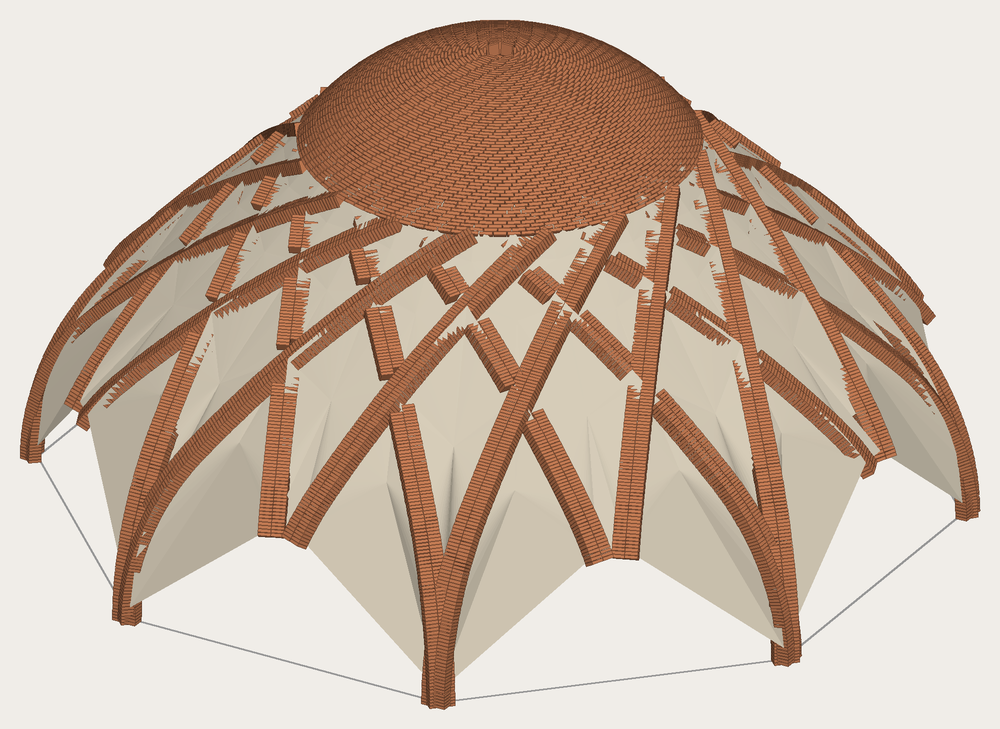
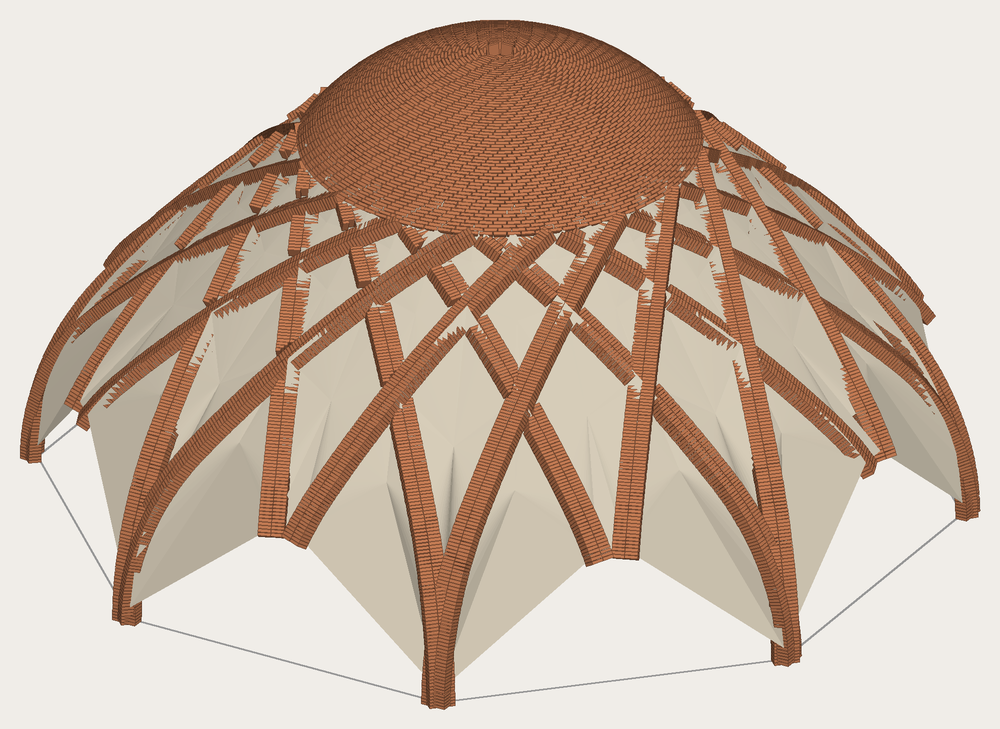
Karbandi ribs: continuous through every crossing
Trimmed rib now stops exactly at the passing rib's faces (exact rib body test, bricks shortened as cut bricks)
instead of losing a wide zone around each crossing; no more stranded pieces dropped. Knots where several
ribs meet use one fixed rank so the over/under can't form a loop. Test: every cut no longer than the passing rib.

Claude-Session: https://claude.ai/code/session_01WZz9U86PiQQhB9v6wZTtqs

diff --git a/src/MasonryCore/KarbandiBricks.cs b/src/MasonryCore/KarbandiBricks.cs
@@ -126,11 +126,11 @@ namespace Masonry.Core
                 }
             }
 
-            // crossings: the lower-numbered rib stays whole; bricks of the other rib inside it are cut away (mitred joint, K30)
+            // crossings: one rib passes whole through the knot, the other is trimmed brick by brick to the faces of the first.
+            // Only what is really inside the passing rib is cut: the gap in the trimmed rib is exactly the passing rib's width
+            // (seen along the trimmed rib), so both ribs read as continuous lines meeting at a knot (girih), as built.
             var keep = Enumerable.Repeat(true, bricks.Count).ToArray();
-            double reach = width / 2 + (s.Method == RibMethod.Radial ? f.Height / 2 : f.Length / 2) + s.Joint;   // just past the main rib
-            // woven, like a girih: along each rib its crossings alternate over / under, so every rib passes whole through
-            // about half of them and no piece is left between two cuts in a row
+            // woven, like a girih: along each rib its crossings alternate over / under
             var order = new Dictionary<(int rib, KarbandiCrossing x), int>();
             for (int ri = 0; ri < k.Ribs.Count; ri++)
             {
@@ -139,48 +139,98 @@ namespace Masonry.Core
                                       .OrderBy(x => Vec3.Dot(new Vec3(x.Point.X, x.Point.Y, rb.From.Z) - rb.From, dir) / Math.Max(1e-9, len2)).ToList();
                 for (int q = 0; q < mine.Count; q++) order[(ri, mine[q])] = q;
             }
-            foreach (var x in k.Crossings)
+            // each rib's underside in its own vertical plane: (distance along the chord, height), a point every 1 cm
+            var profile = new Dictionary<int, (double[] s, double[] z)>();
+            (double[] s, double[] z) Profile(int ri)
             {
-                // wall arches always stay whole; otherwise over / under alternates (or, mitred, the lower-numbered rib passes)
+                if (profile.TryGetValue(ri, out var pr)) return pr;
+                int m = Math.Max(2, (int)Math.Ceiling(k.Span / 10) + 1);
+                var ss = new double[m]; var zz = new double[m];
+                for (int q = 0; q < m; q++) { ss[q] = k.Span * q / (m - 1); zz[q] = k.Centre.Z + RibArch.Height(k.Arch, ss[q], k.Span); }
+                return profile[ri] = (ss, zz);
+            }
+            // is point p inside rib ri's body (with a joint's clearance)?
+            bool InRib(int ri, Vec3 p)
+            {
+                var rb = k.Ribs[ri]; var d = rb.To - rb.From; d = new Vec3(d.X, d.Y, 0);
+                double planLen = d.Length; var u = d * (1 / planLen); var w = new Vec3(-u.Y, u.X, 0);
+                var rel = new Vec3(p.X - rb.From.X, p.Y - rb.From.Y, 0);
+                if (Math.Abs(Vec3.Dot(rel, w)) > width / 2 + s.Joint) return false;
+                double along = Vec3.Dot(rel, u) / planLen * k.Span;
+                if (along < -depth || along > k.Span + depth) return false;
+                var (ss, zz) = Profile(ri);
+                // nearest point of the underside curve, searched near the projection only
+                int i0 = Math.Max(0, (int)((along - depth - 50) / k.Span * (ss.Length - 1)));
+                int i1 = Math.Min(ss.Length - 1, (int)Math.Ceiling((along + depth + 50) / k.Span * (ss.Length - 1)));
+                double best = double.MaxValue; int bi = -1;
+                for (int q = i0; q <= i1; q++) { double ds = ss[q] - along, dz = zz[q] - p.Z; double e = ds * ds + dz * dz; if (e < best) { best = e; bi = q; } }
+                if (bi < 0) return false;
+                // the rib body lies above the underside (away from the arch's inside)
+                double dist = Math.Sqrt(best);
+                bool insideArch = along > 0 && along < k.Span && p.Z < k.Centre.Z + RibArch.Height(k.Arch, along, k.Span);
+                bool above = !insideArch;
+                return above ? dist <= depth + s.Joint : dist <= s.Joint;
+            }
+            int Pair(KarbandiCrossing x)
+            {
                 bool wa = k.Ribs[x.RibA].OnWall, wb = k.Ribs[x.RibB].OnWall;
                 int qa = order.TryGetValue((x.RibA, x), out var oa) ? oa : 0, qb = order.TryGetValue((x.RibB, x), out var ob) ? ob : 0;
-                int main = wa && !wb ? x.RibA : wb && !wa ? x.RibB
-                         : s.Woven ? ((qa + qb) % 2 == 0 ? x.RibA : x.RibB) : Math.Min(x.RibA, x.RibB);
+                return wa && !wb ? x.RibA : wb && !wa ? x.RibB
+                     : s.Woven ? ((qa + qb) % 2 == 0 ? x.RibA : x.RibB) : Math.Min(x.RibA, x.RibB);
+            }
+            // where three or more ribs cross at (nearly) one point, pairwise over/under can form a loop (A over B, B over C,
+            // C over A) and every rib is cut: nothing passes. In such a knot one rib passes and the others stop at it, in a fixed rank.
+            var cx = k.Crossings; var parent = Enumerable.Range(0, cx.Count).ToArray();
+            int Find(int a) { while (parent[a] != a) a = parent[a] = parent[parent[a]]; return a; }
+            double knot = 1.5 * Math.Max(width, depth) + 2 * s.Joint;
+            for (int i = 0; i < cx.Count; i++) for (int j = i + 1; j < cx.Count; j++)
+                if ((cx[i].Point - cx[j].Point).Length < knot) parent[Find(i)] = Find(j);
+            var mainOf = new Dictionary<KarbandiCrossing, int>();
+            foreach (var cl in Enumerable.Range(0, cx.Count).GroupBy(Find))
+            {
+                var members = cl.Select(i => cx[i]).ToList();
+                if (members.Count == 1) { mainOf[members[0]] = Pair(members[0]); continue; }
+                var ribs = members.SelectMany(x => new[] { x.RibA, x.RibB }).Distinct()
+                    .OrderByDescending(r => k.Ribs[r].OnWall).ThenByDescending(r => members.Count(x => Pair(x) == r)).ThenBy(r => r).ToList();
+                foreach (var x in members) mainOf[x] = ribs.IndexOf(x.RibA) < ribs.IndexOf(x.RibB) ? x.RibA : x.RibB;
+            }
+            int stations = 24;
+            foreach (var x in k.Crossings)
+            {
+                int main = mainOf[x];
                 int side = main == x.RibA ? x.RibB : x.RibA;
-                var mainDir = Dir(k, main);
+                double near = width + depth + f.Length + 3 * Math.Max(width, depth);
                 for (int i = 0; i < bricks.Count; i++)
                 {
                     if (!keep[i] || ribOf[i] != side) continue;
                     var b = bricks[i];
-                    var d = new Vec3(b.Center.X - x.Point.X, b.Center.Y - x.Point.Y, 0);
-                    double across2 = Math.Abs(Vec3.Dot(d, new Vec3(-mainDir.Y, mainDir.X, 0)));
-                    if (across2 < reach && Math.Abs(b.Center.Z - x.Point.Z) < depth + f.Length) { keep[i] = false; report.Mitred++; }
-                }
-            }
-            // runs of three slices or fewer left between two cuts are not worth building: drop them
-            int minRun = s.Method == RibMethod.Radial ? 6 : 2;
-            double gap = (s.Method == RibMethod.Radial ? f.Height : f.Length) + s.Joint;
-            foreach (var grp in Enumerable.Range(0, bricks.Count).Where(i => keep[i]).GroupBy(i => (pieceOf[i], s.Method == RibMethod.Radial ? 0 : bricks[i].Course)))
-            {
-                var idx = grp.OrderBy(i => bricks[i].U).ToList();
-                if (s.Method == RibMethod.Radial) idx = grp.Where(i => bricks[i].IndexInCourse == 0).OrderBy(i => bricks[i].U).ToList();
-                int st = 0;
-                for (int q = 1; q <= idx.Count; q++)
-                {
-                    if (q < idx.Count && bricks[idx[q]].U - bricks[idx[q - 1]].U < gap * 1.5) continue;
-                    if (q - st < minRun)
-                        for (int z = st; z < q; z++)
-                        {
-                            double u = bricks[idx[z]].U;
-                            for (int i = 0; i < bricks.Count; i++)
-                                if (keep[i] && pieceOf[i] == pieceOf[idx[z]] && Math.Abs(bricks[i].U - u) < 1e-6) { keep[i] = false; report.Dropped++; }
-                        }
-                    st = q;
+                    if ((b.Center - x.Point).Length > near * 3) continue;
+                    var zAx = Vec3.Cross(b.XAxis, b.YAxis).Unit();
+                    // walk along the brick's length: which stations are clear of the passing rib?
+                    var clear = new bool[stations + 1]; int nClear = 0;
+                    for (int q = 0; q <= stations; q++)
+                    {
+                        double xs = -b.Length / 2 + b.Length * q / stations; bool hit = false;
+                        foreach (var sy in new[] { -1.0, 1.0 }) foreach (var sz in new[] { -1.0, 1.0 })
+                            if (!hit && InRib(main, b.Center + b.XAxis * xs + b.YAxis * (sy * b.Depth / 2) + zAx * (sz * b.Height / 2))) hit = true;
+                        if (!hit && InRib(main, b.Center + b.XAxis * xs)) hit = true;
+                        clear[q] = !hit; if (!hit) nClear++;
+                    }
+                    if (nClear == stations + 1) continue;
+                    report.Mitred++;
+                    // keep the longer clear run that reaches an end of the brick; the cut face sits against the passing rib
+                    int lo = 0; while (lo <= stations && clear[lo]) lo++;
+                    int hi = stations; while (hi >= 0 && clear[hi]) hi--;
+                    double keepLo = b.Length * Math.Max(0, lo - 1) / stations, keepHi = b.Length * Math.Max(0, stations - hi - 1) / stations;
+                    double kept = Math.Max(keepLo, keepHi);
+                    if (kept < Math.Max(40, b.Length / 4)) { keep[i] = false; continue; }
+                    double x0 = keepLo >= keepHi ? -b.Length / 2 : b.Length / 2 - kept;
+                    b.Center = b.Center + b.XAxis * (x0 + kept / 2);
+                    b.Length = kept; b.IsCut = true;
                 }
             }
             var result = new List<BrickPlacement>();
             for (int i = 0; i < bricks.Count; i++) if (keep[i]) result.Add(bricks[i]);
-            // the bricks either side of a cut are the mitred ones
             report.Bricks = result.Count;
             return result;
         }

diff --git a/tests/MasonryCore.Tests/Program.cs b/tests/MasonryCore.Tests/Program.cs
@@ -847,6 +847,29 @@ static class Program
             var kb_two = KarbandiBricks.Build(kv, sqf, new RibSettings { Across = 2 }, out var kb_trep);
             Check(Math.Abs(kb_trep.RibWidth - 408) < 1e-6 && kb_two.Count > rad.Count, "kb_two bricks across: a 40.8 cm rib");
             Check(rrep.Describe(Lang.Fa).Contains("تویزه") && rrep.Describe(Lang.En).Contains("rib section"), "rib report in both languages");
+            // continuous ribs: at a crossing the trimmed rib stops at the faces of the passing rib, so its gap is no longer
+            // than the passing rib seen along it (width / sin of the crossing angle) plus a slice either side
+            double kb_worst = 0, kb_allow = 0; int kb_gaps = 0;
+            foreach (var g in rad.Where(b => b.IndexInCourse == 0).GroupBy(b => (int)b.V))
+            {
+                var us = g.OrderBy(b => b.U).ToList();
+                for (int i = 1; i < us.Count; i++)
+                {
+                    if (us[i].U - us[i - 1].U < 60) continue;
+                    var dc = us[i].Center - us[i - 1].Center;
+                    double gp = Math.Sqrt(dc.X * dc.X + dc.Y * dc.Y) - 53; kb_gaps++;   // seen in plan, as the passing rib's width is
+                    var kb_rb = kv.Ribs[g.Key]; var d0 = (kb_rb.To - kb_rb.From); d0 = new Vec3(d0.X, d0.Y, 0).Unit();
+                    double worstSin = 1;
+                    foreach (var x in kv.Crossings.Where(x => x.RibA == g.Key || x.RibB == g.Key))
+                    {
+                        var o = kv.Ribs[x.RibA == g.Key ? x.RibB : x.RibA]; var d1 = (o.To - o.From); d1 = new Vec3(d1.X, d1.Y, 0).Unit();
+                        worstSin = Math.Min(worstSin, Math.Abs(d0.X * d1.Y - d0.Y * d1.X));
+                    }
+                    double allow = (200 + 16) / worstSin + 2 * 53;
+                    if (gp / allow > kb_worst / Math.Max(1, kb_allow)) { kb_worst = gp; kb_allow = allow; }
+                }
+            }
+            Check(kb_gaps > 0 && kb_worst <= kb_allow, $"ribs stay continuous: {kb_gaps} cuts, the longest {kb_worst:0} mm (the passing rib needs up to {kb_allow:0} mm)");
         }
 
         Console.WriteLine("Karbandi shells and shamseh");
